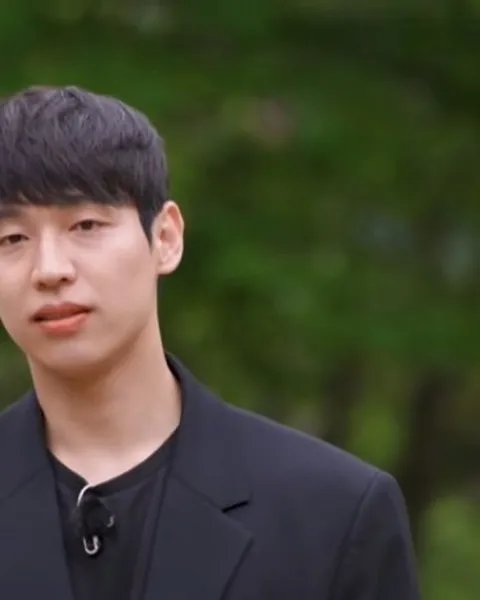
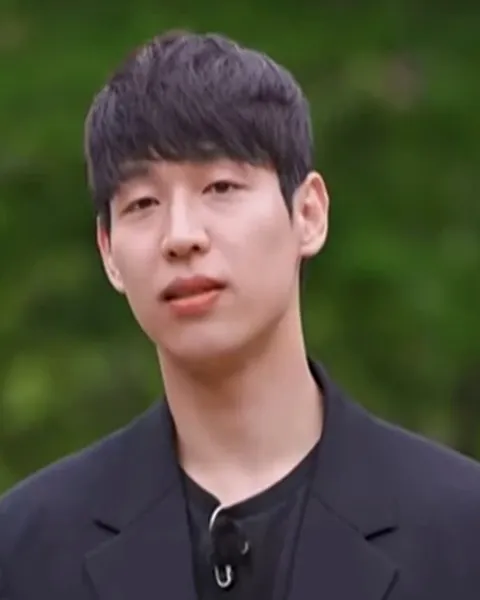
영철과 광수 프로필을 가운데 정면으로 다시 자른다.
옆을 보던 크롭을 빼고, 다른 출연진과 같은 480x600 칸에 얼굴을 맞춘다.

diff --git a/docs/assets/app.js b/docs/assets/app.js
@@ -1629,7 +1629,8 @@ function pairCard(person) {
   button.dataset.id = person.id;
   button.style.setProperty("--glow", PAIR_COLORS[person.id] || "#ffd0e0");
   const photo = document.createElement("img");
-  photo.src = `${new URL(String(person.photo).split("?")[0], document.baseURI).href}?v=4`;
+  const face = typeof BoardCast !== "undefined" ? BoardCast.face(person.id) : "";
+  photo.src = asset(face || person.photo);
   photo.alt = "";
   const name = document.createElement("strong");
   name.textContent = person.name;

diff --git a/docs/assets/cast.js b/docs/assets/cast.js
@@ -4,8 +4,8 @@
     youngsoo: "assets/cast/youngsoo.webp?v=4",
     youngho: "assets/cast/youngho.webp?v=4",
     youngsik: "assets/cast/youngsik.webp?v=4",
-    youngchul: "assets/cast/youngchul.webp?v=4",
-    gwangsoo: "assets/cast/gwangsoo.webp?v=4",
+    youngchul: "assets/cast/youngchul.webp?v=6",
+    gwangsoo: "assets/cast/gwangsoo.webp?v=5",
     sangchul: "assets/cast/sangchul.webp?v=4",
     youngsook: "assets/cast/youngsook.webp?v=4",
     jeongsook: "assets/cast/jeongsook.webp?v=4",

diff --git a/docs/m.html b/docs/m.html
@@ -183,9 +183,9 @@
   </div>
   <div id="bgm-host"></div>
   <script src="assets/filters.js?v=3"></script>
-  <script src="assets/cast.js?v=4"></script>
+  <script src="assets/cast.js?v=6"></script>
   <script src="assets/feed-scroll.js?v=5"></script>
-  <script src="assets/app.js?v=14"></script>
+  <script src="assets/app.js?v=15"></script>
   <script src="assets/bgm.js?v=4"></script>
   <script src="assets/mobile.js?v=2"></script>
 </body>

diff --git a/docs/index.html b/docs/index.html
@@ -172,9 +172,9 @@
   </div>
   <div id="bgm-host"></div>
   <script src="assets/filters.js?v=3"></script>
-  <script src="assets/cast.js?v=4"></script>
+  <script src="assets/cast.js?v=6"></script>
   <script src="assets/feed-scroll.js?v=5"></script>
-  <script src="assets/app.js?v=14"></script>
+  <script src="assets/app.js?v=15"></script>
   <script src="assets/bgm.js?v=4"></script>
 </body>
 </html>
